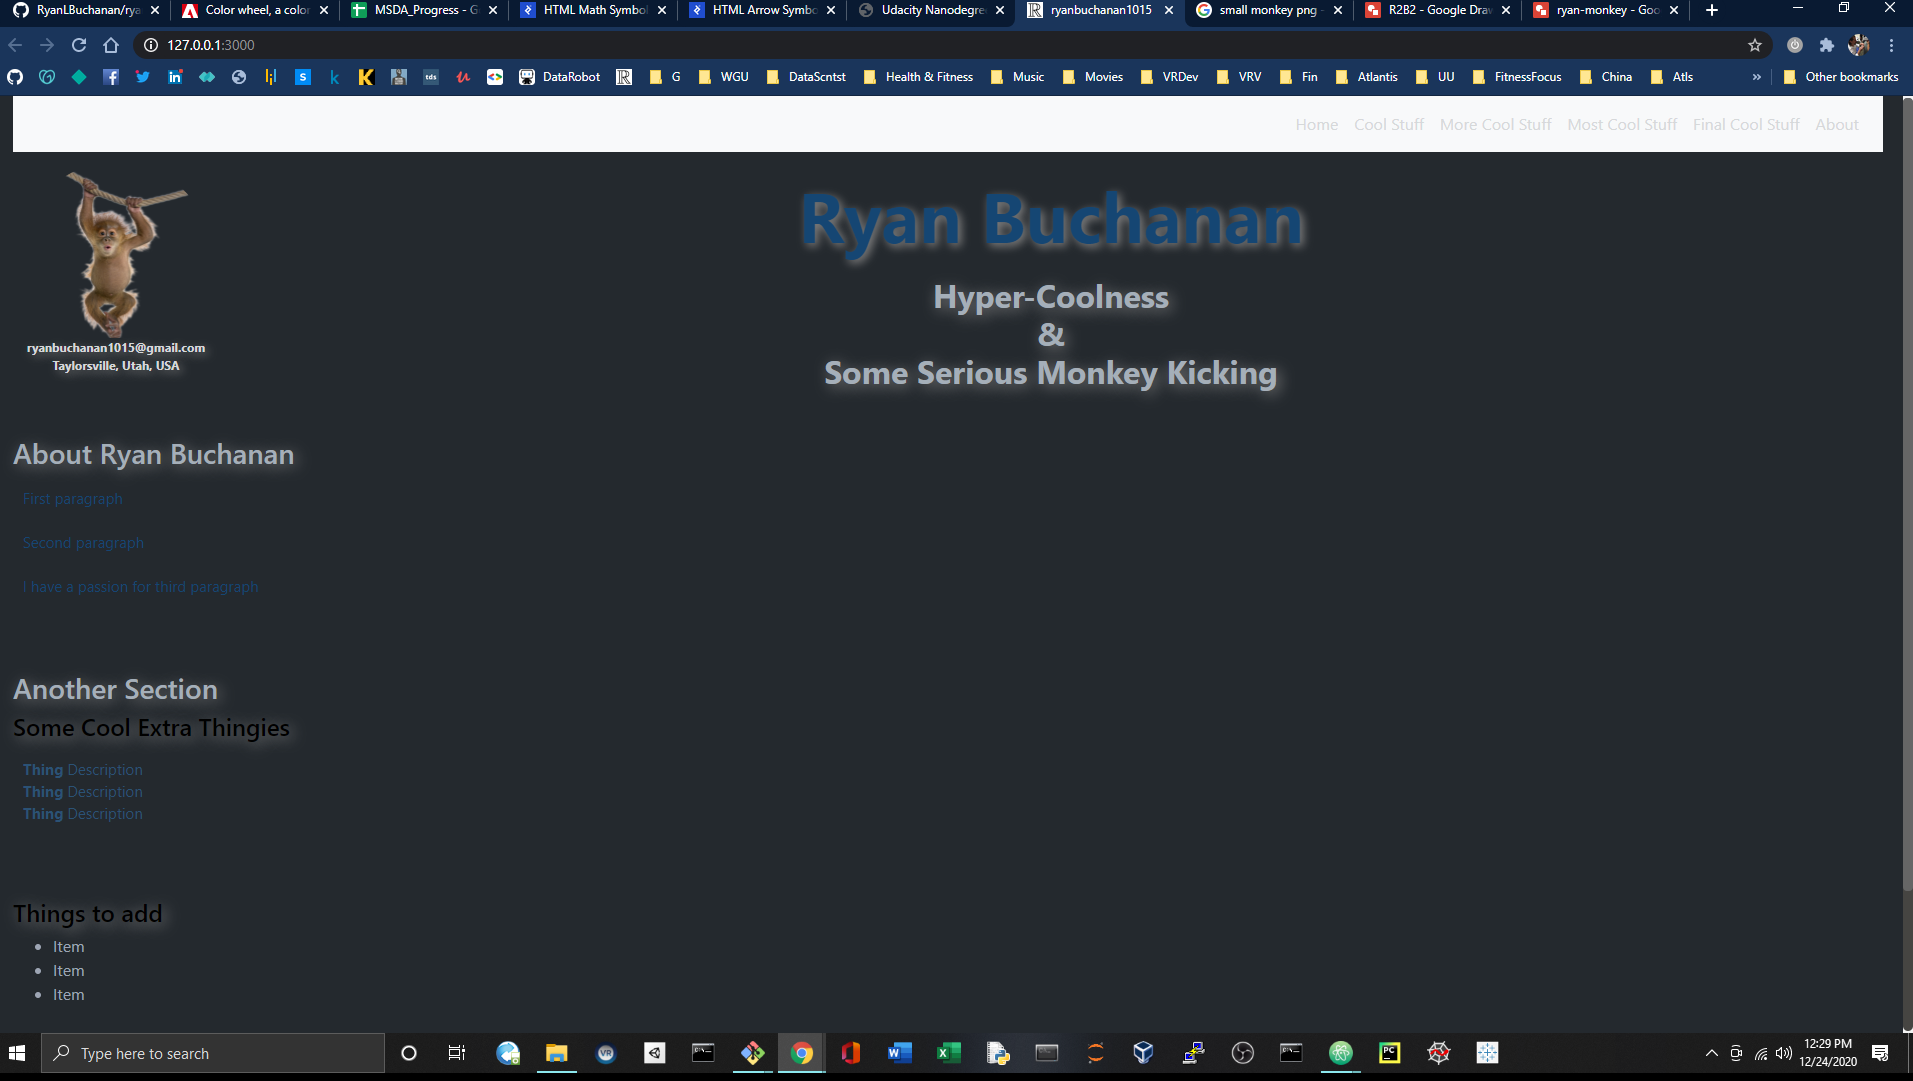
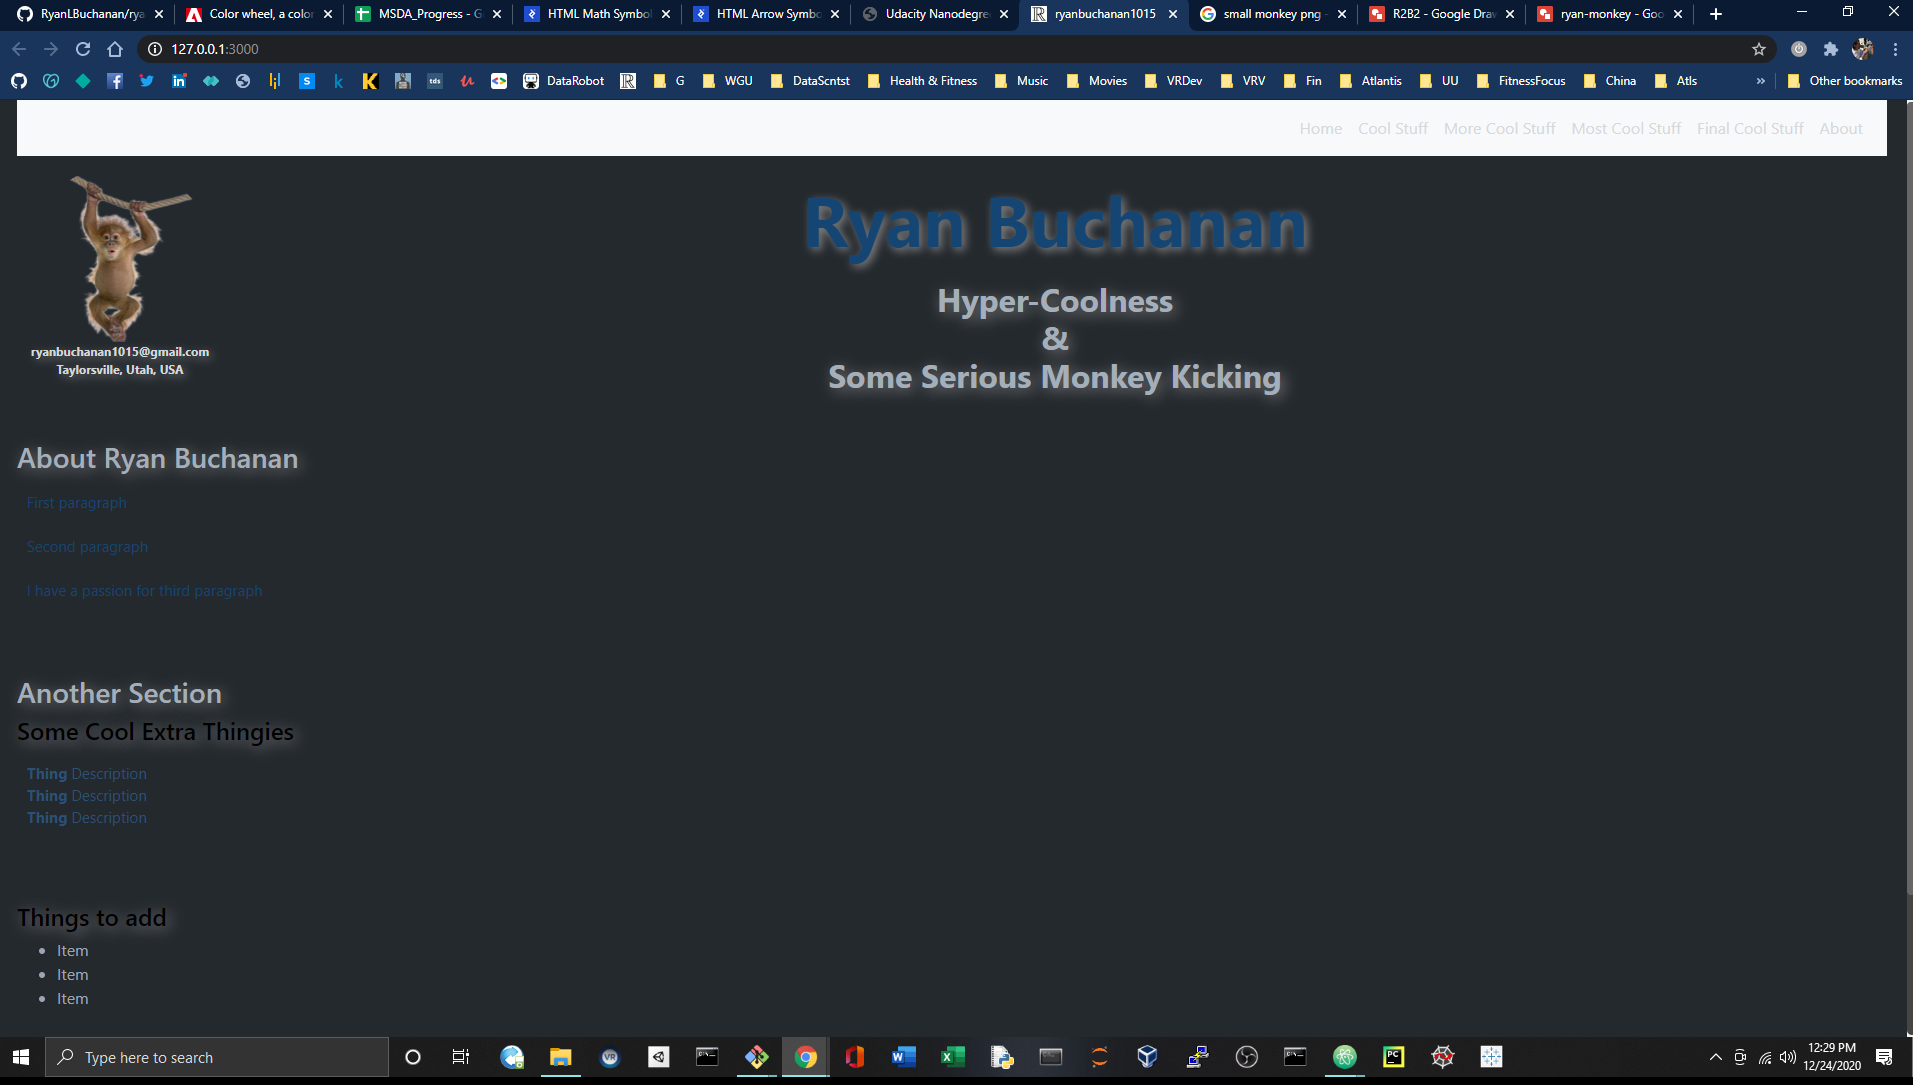
chore: Completed todays work

diff --git a/scripts/plot1.js b/scripts/plot1.js
@@ -1,0 +1,38 @@
+var year = [1990, 2015];
+var arable_land1 = [0.33933, 0.3885];
+var country1 = 'Brazil';
+
+var trace1 = {
+  x:year,
+  y:arable_land1,
+  mode:'lines+markers', //could also be 'markers'
+  type:'scatter',
+  name: country1
+};
+
+var arable_land2 = [0.1507, 0.1451];
+var country2 = 'Germany';
+var trace2 = {
+  x:year,
+  y:arable_land2,
+  mode:'lines+markers',
+  type:'scatter',
+  name:country2
+};
+
+var data = [trace1, trace2];
+
+var layout = {
+
+  title:'Change in Hectares of Arable Land <br> Per Person in Brazil 1990 to 2015',
+  xaxis: {
+    title: 'year',
+    tick0:1990,
+    dtick:25
+  },
+  yaxis: {
+    title:'hectares per person'
+  }
+};
+
+Plotly.newPlot('plot1', data, layout);

diff --git a/index.html b/index.html
@@ -82,7 +82,7 @@
       I have a passion for third paragraph
     </p>
   </div>
-<br />
+  <br />
   <div>
     <h3>Another Section</h3>
     <h4>Some Cool Extra Thingies</h4>
@@ -92,7 +92,7 @@
       <b>Thing</b> Description<br>
     </p>
   </div>
-<br />
+  <br />
   <div id="things-to-add">
     <h4>Things to add</h4>
     <ul>
